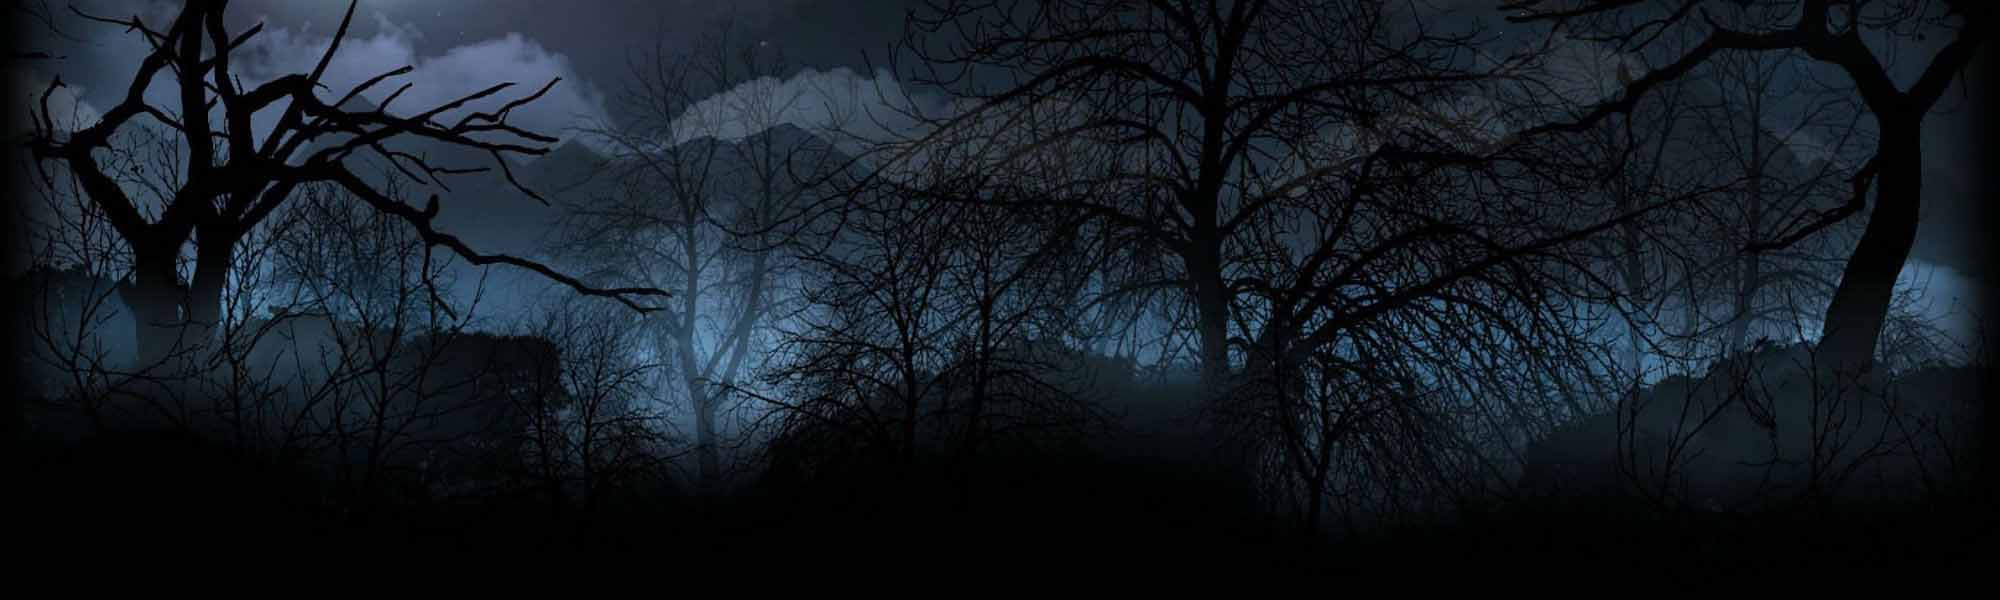
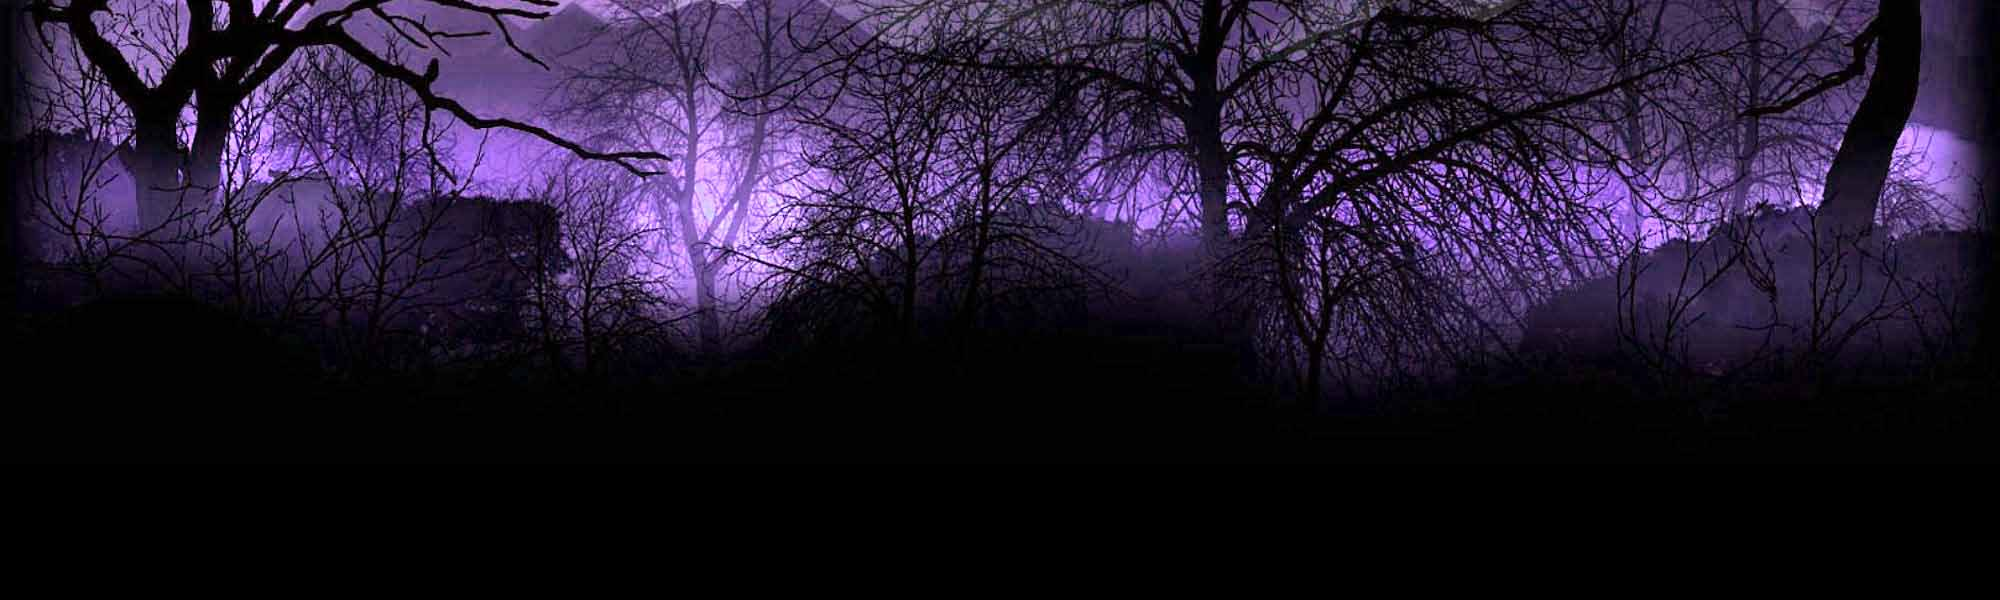
made blueish background option purple. added cloud background option.

diff --git a/src/Preloader.js b/src/Preloader.js
@@ -37,7 +37,7 @@ Preloader.prototype = {
 
         game.load.image('menu-bg', 'assets/images/BigAutumnGhost.png');
         game.load.image('gameover-bg', 'assets/images/BigSummer.jpg');
-        game.load.image('game-bg', 'assets/images/creepybg-scrollwidth-1.jpg');
+        game.load.image('game-bg', 'assets/images/cloudImage2.png');
         game.load.image('options-bg', 'assets/images/options-bg.jpg');
 
         game.load.image('ground', 'img/platform.png');
